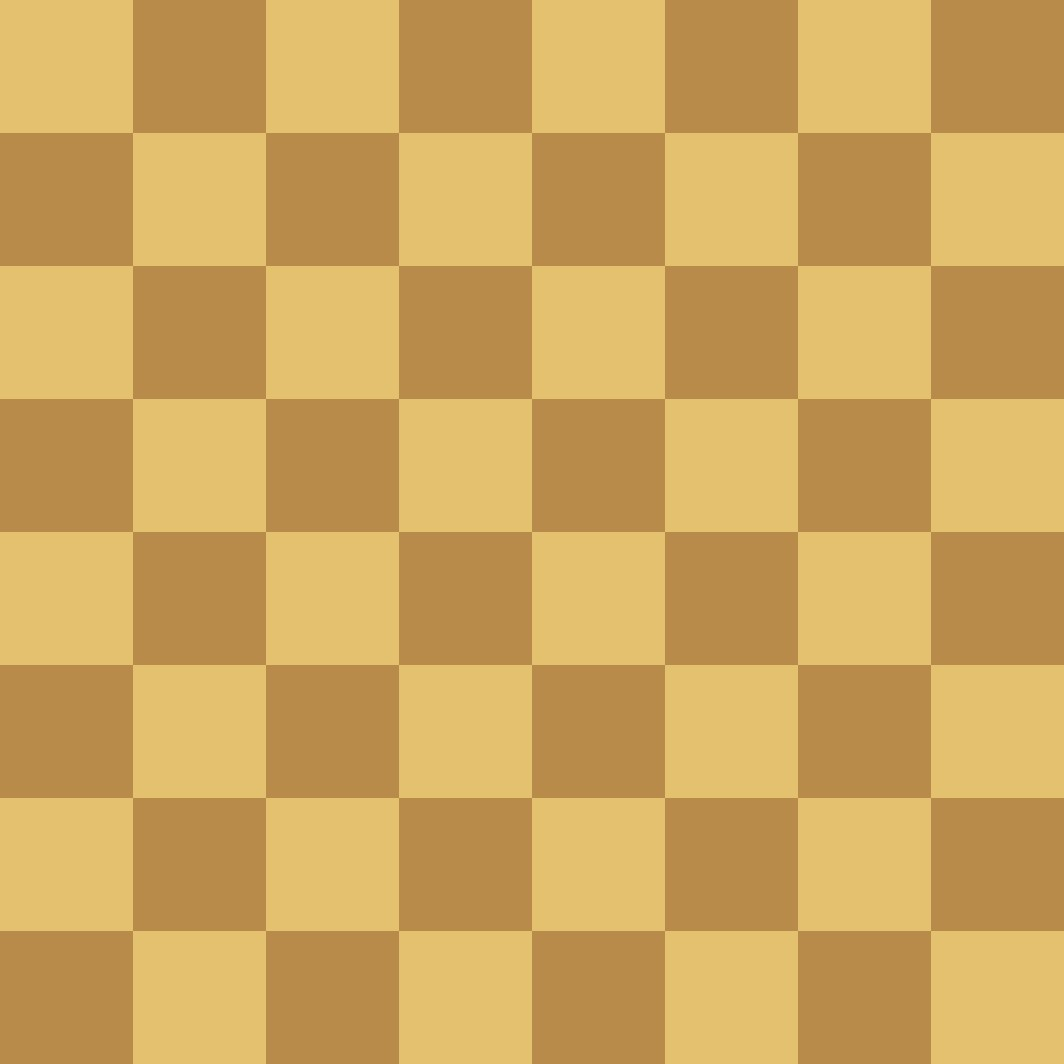
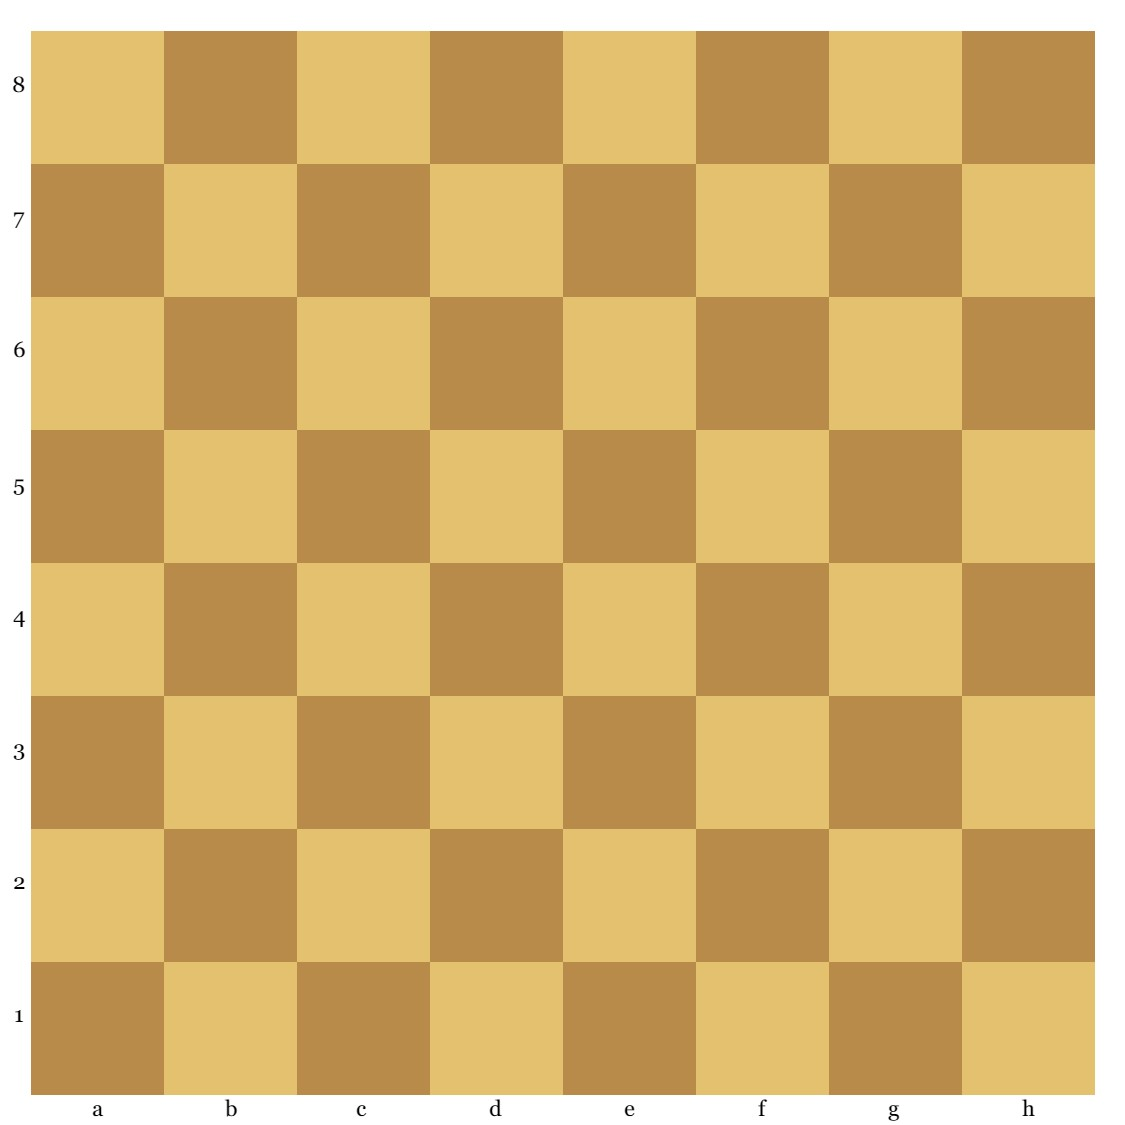
Sending board

Changed region(s): [[0.0, 0.0, 1.0, 1.0]]

diff --git a/bot.py b/bot.py
@@ -4,6 +4,9 @@ import discord
 from discord.ext import commands    # gets the bot commands archive
 from discord.utils import get       # gets the finding functions
 from discord.ext import commands
+from game import Board
+from img import draw_board
+
 
 CONFIG = json.load(open("./config.json"))
 
@@ -12,6 +15,14 @@ TOKEN = CONFIG["token"]
 intents = discord.Intents.all()
 bot = commands.Bot(command_prefix='!', intents=intents)
 
-
+@bot.command(pass_context=True)
+async def generate(ctx, *, FEN):
+    b = Board(FEN)
+    b.parse_fen()
+    draw_board(b.board)
+    # embed_ = discord.Embed(title = "Board", color = 0xF1C40F)
+    # file_ = discord.File("./assets/RunningBoard.jpg", filename="board.png")
+    # embed_.set_image(url="attachment://board.jpg")
+    # await ctx.send(file=file_, embed=embed_)
 
 bot.run(TOKEN)

diff --git a/img.py b/img.py
@@ -16,7 +16,7 @@ PIECES = {
             'K': Image.open("./assets/KingW.png")
         }
 
-def draw_board(board: list) -> Image:
+def draw_board(board: list) -> None:
     if not board:
         return Image.open("./assets/BoardError.jpg")
 
@@ -27,9 +27,9 @@ def draw_board(board: list) -> Image:
             piece = board[i][j]
             
             if piece != ".":
-                final.paste(PIECES[piece], (PIECE_SIZE*j, PIECE_SIZE*i), PIECES[piece])
+                final.paste(PIECES[piece], (PIECE_SIZE*j + 30, PIECE_SIZE*i + 30), PIECES[piece])
     
-    return final
+    final.save("./assets/RunningBoard.jpg")
 
 
 if __name__ == "__main__":
